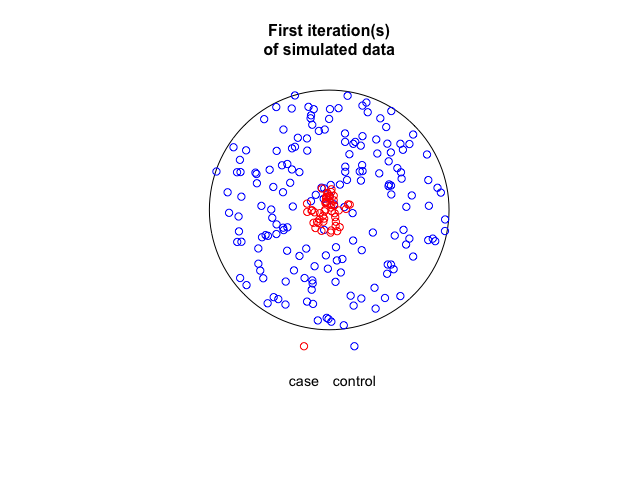
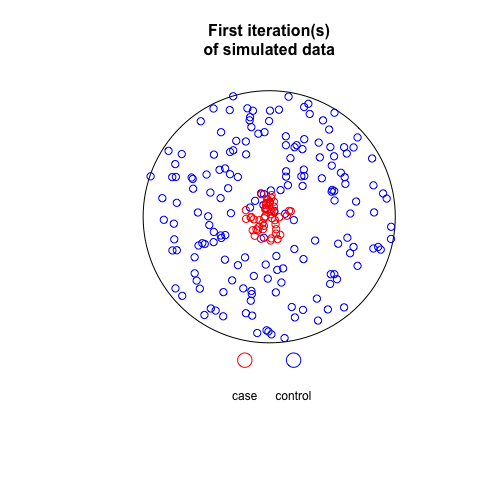
Updated README.md with badges and example of spatial_plots() with case and control clustering

Changed region(s): [[0.27, 0.155, 0.81, 0.7438], [0.39, 0.031, 0.69, 0.124], [0.45, 0.7748, 0.63, 0.8058]]

diff --git a/README.md b/README.md
@@ -1,6 +1,16 @@
 sparrpowR: Power analysis to detect spatial relative clusters <img src="man/figures/sparrpowR.png" width="120" align="right" />
 ===================================================
 
+<!-- badges: start -->
+
+[![CRAN
+version](https://www.r-pkg.org/badges/version-ago/sparrpowR)](https://cran.r-project.org/package=sparrpowR)
+[![CRAN RStudio mirror
+downloads](https://cranlogs.r-pkg.org/badges/grand-total/sparrpowR?color=blue)](https://r-pkg.org/pkg/sparrpowR)
+![license](https://img.shields.io/badge/license-apache-yellow)
+
+<!-- badges: end -->
+
 <h2 id="overview">
 
 Overview
@@ -125,6 +135,7 @@ stats::t.test(x = foo$t_obs, mu = 1, alternative = "two.sided")
 # Run spatial_plots #
 # ----------------- #
 
+# Statistical power for case-only clustering
 spatial_plots(foo)
 ```
 ![](man/figures/spatial_plots1.png)
@@ -132,3 +143,10 @@ spatial_plots(foo)
 ![](man/figures/spatial_plots2.png)
 
 ![](man/figures/spatial_plots3.png)
+```
+# Statistical power for case clustering and control clustering
+spatial_plots(foo, cascon = TRUE)
+```
+![](man/figures/spatial_plots4.png)
+
+![](man/figures/spatial_plots5.png)

diff --git a/NEWS.md b/NEWS.md
@@ -35,6 +35,9 @@
   * Increased the `sim_total` value for a more realistic example
   * Specify all packages for functions
   * Updated code to reflect updates to functions in `sparrpowR`
+* Changes to README.md
+  * Added CRAN badges
+  * Added plotting for case and control clustering
 * Added utils.R file
   * Moved an internal helper functions to a utils.R file
   * Removed this internal helper functions from `jitter_power()`, `spatial_power()`, and `spatial_plots()`
